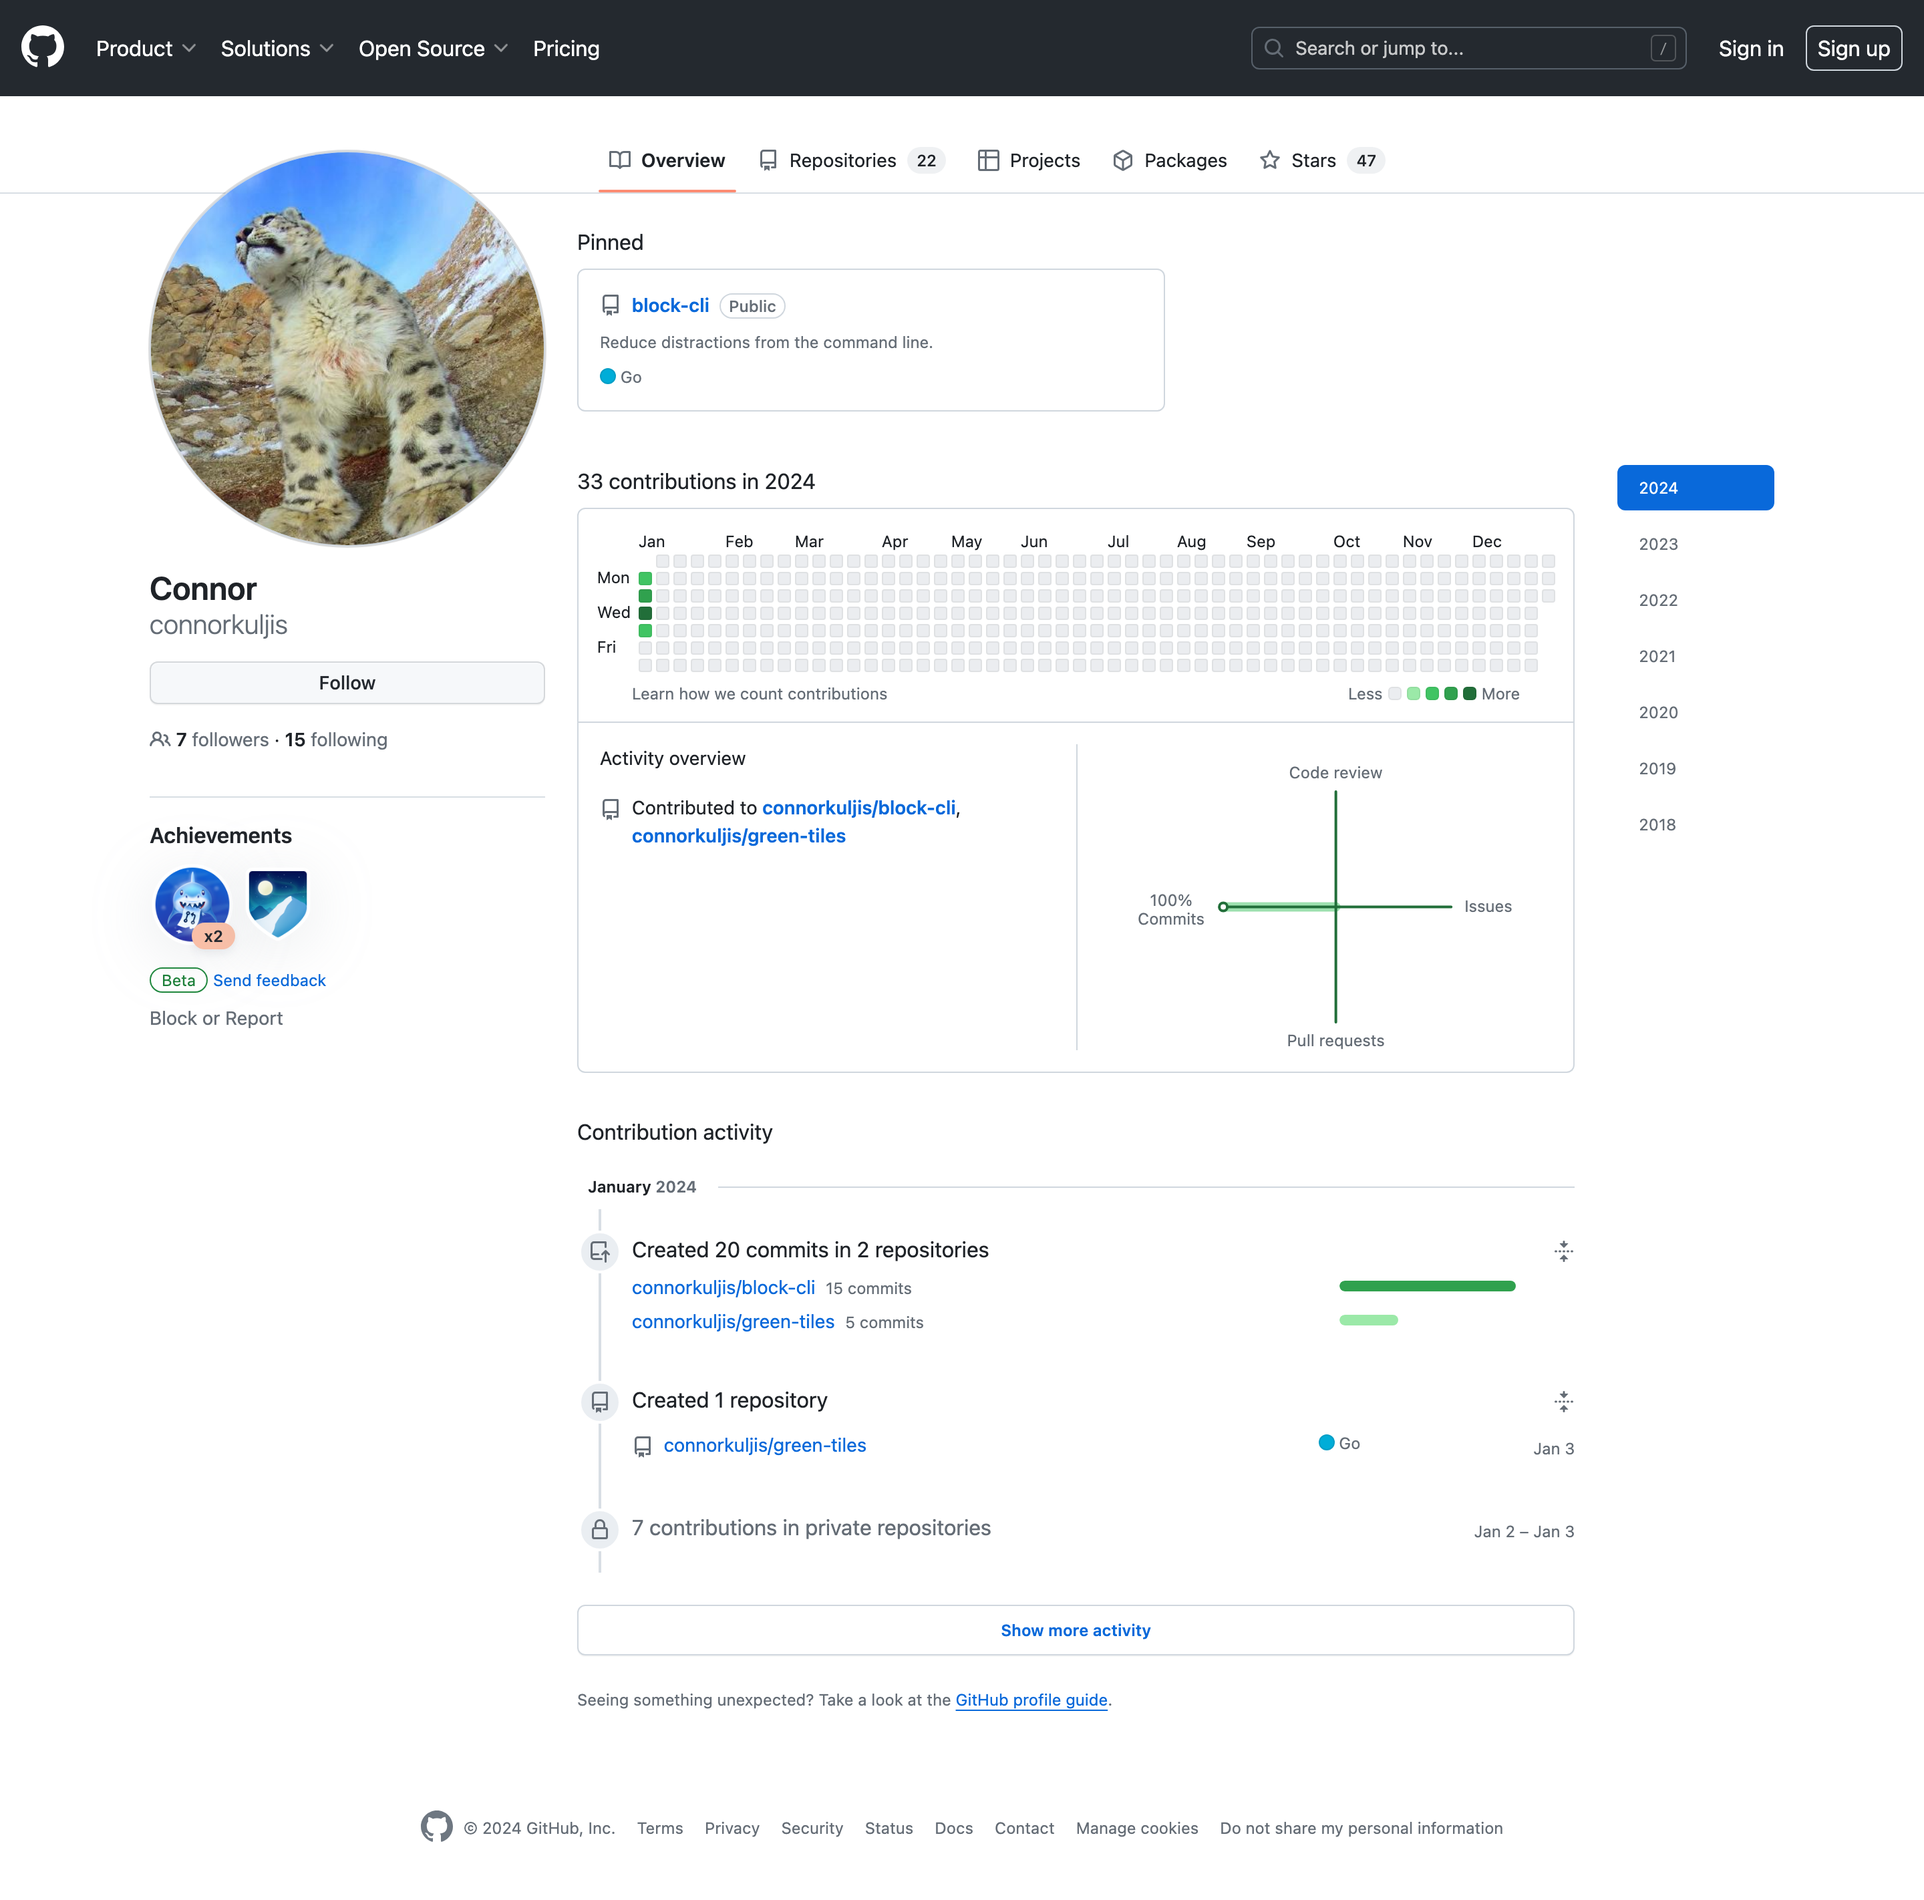
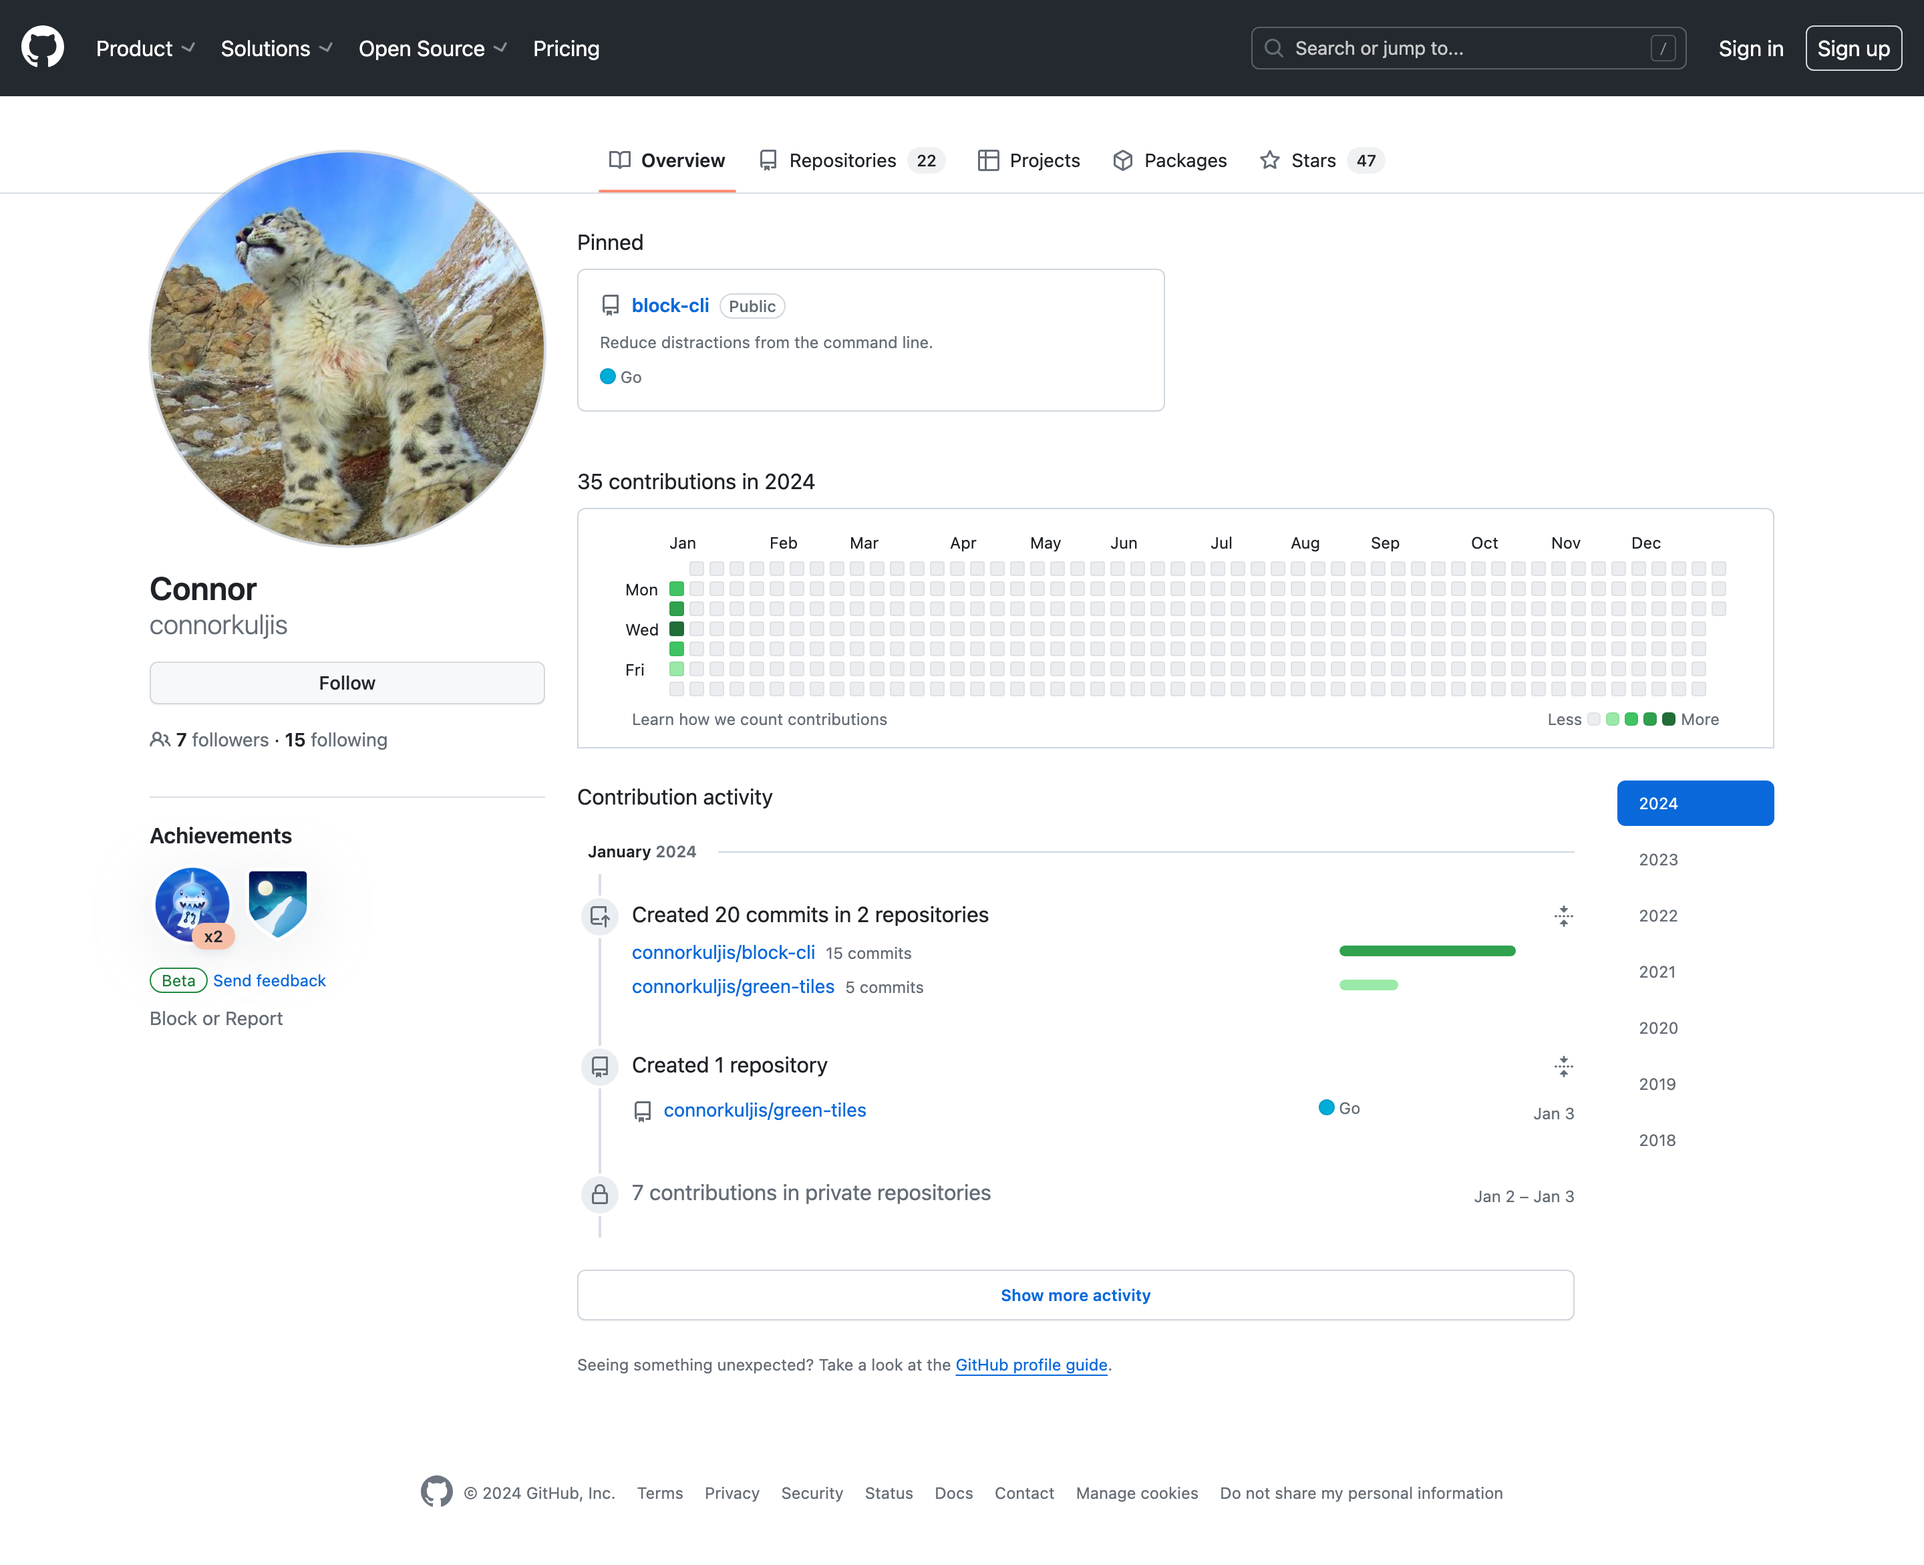
x

diff --git a/screenshot.go b/screenshot.go
@@ -120,7 +120,7 @@ func TakeScreenshot(username string, option int, userYOffset int) (string, error
 	// Create a new RGBA image with the calculated dimensions
 	padding := 40
 	contributionGraphWidth := 1800 + padding
-	contributionGraphHeight := 930 + padding
+	contributionGraphHeight := 425 + padding
 	croppedImage := image.NewRGBA(image.Rect(0, 0, contributionGraphWidth, contributionGraphHeight))
 
 	// Draw into the contribution graph image based on offset
